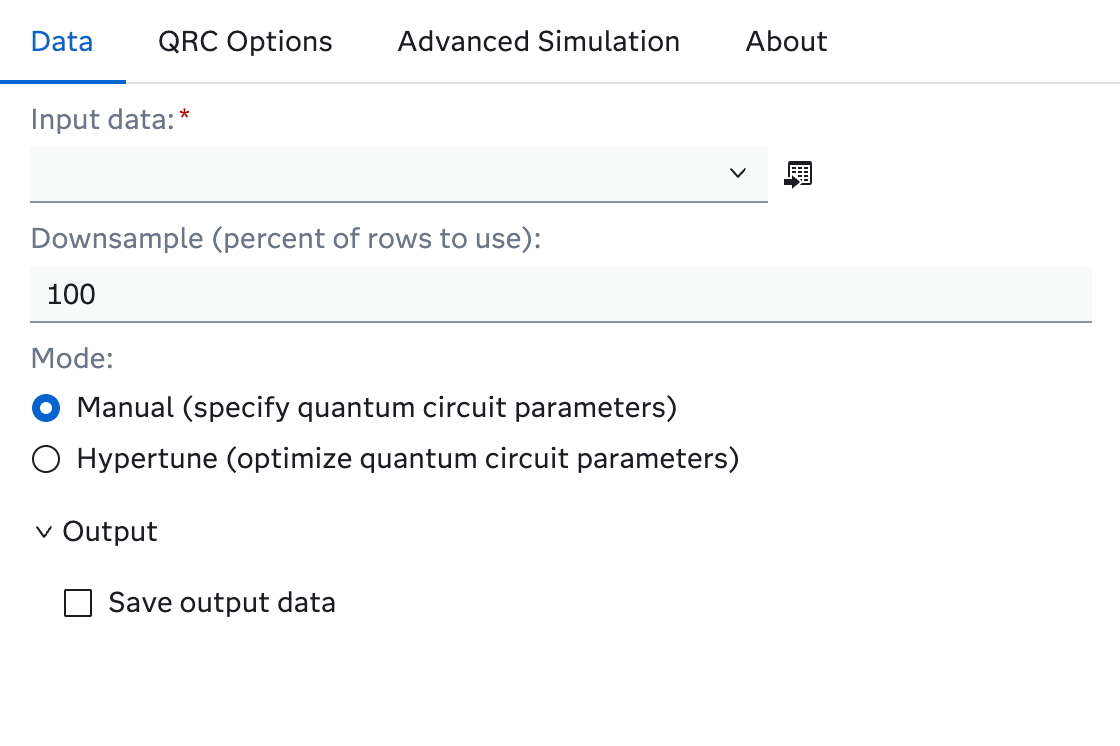
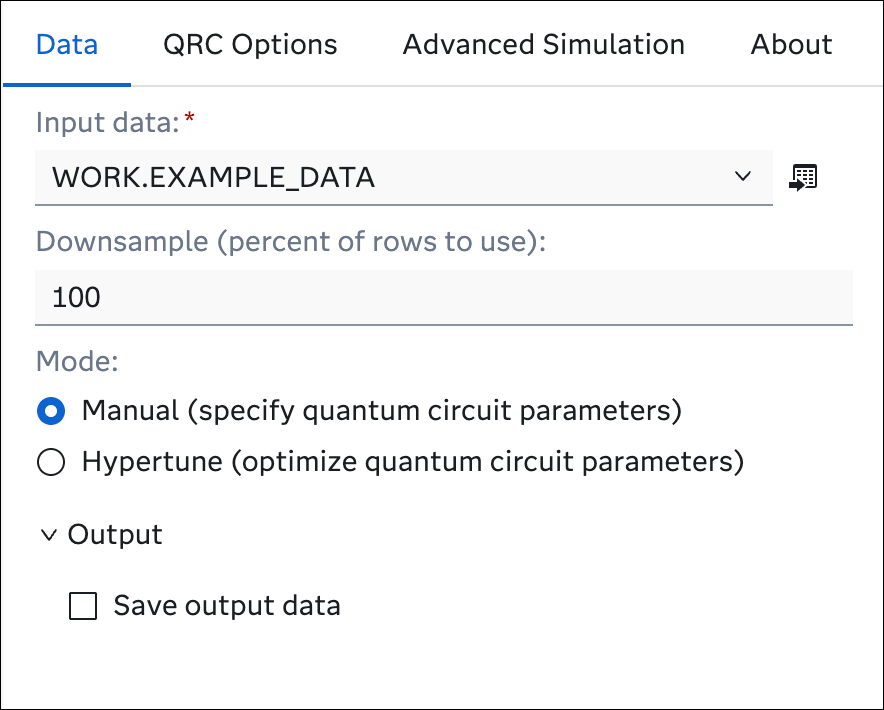
docs(qrc): refresh bordered UI screenshots
- Replace screenshots with bordered lossless WebP images
- Show Manual and Hypertune options in the README

Assisted-by: GitHub Copilot

diff --git a/Quantum - Reservoir Computing/README.md b/Quantum - Reservoir Computing/README.md
@@ -58,7 +58,13 @@ Missing numeric target values are set to 0.
 
 ### QRC Options tab
 
-![QRC Options tab in Hypertune mode](img/qrc-options.webp)
+**Manual mode**
+
+![QRC Options tab in Manual mode](img/qrc-options-manual.webp)
+
+**Hypertune mode**
+
+![QRC Options tab in Hypertune mode](img/qrc-options-hypertune.webp)
 
 | Control | Mode | Description |
 | :--- | :--- | :--- |
